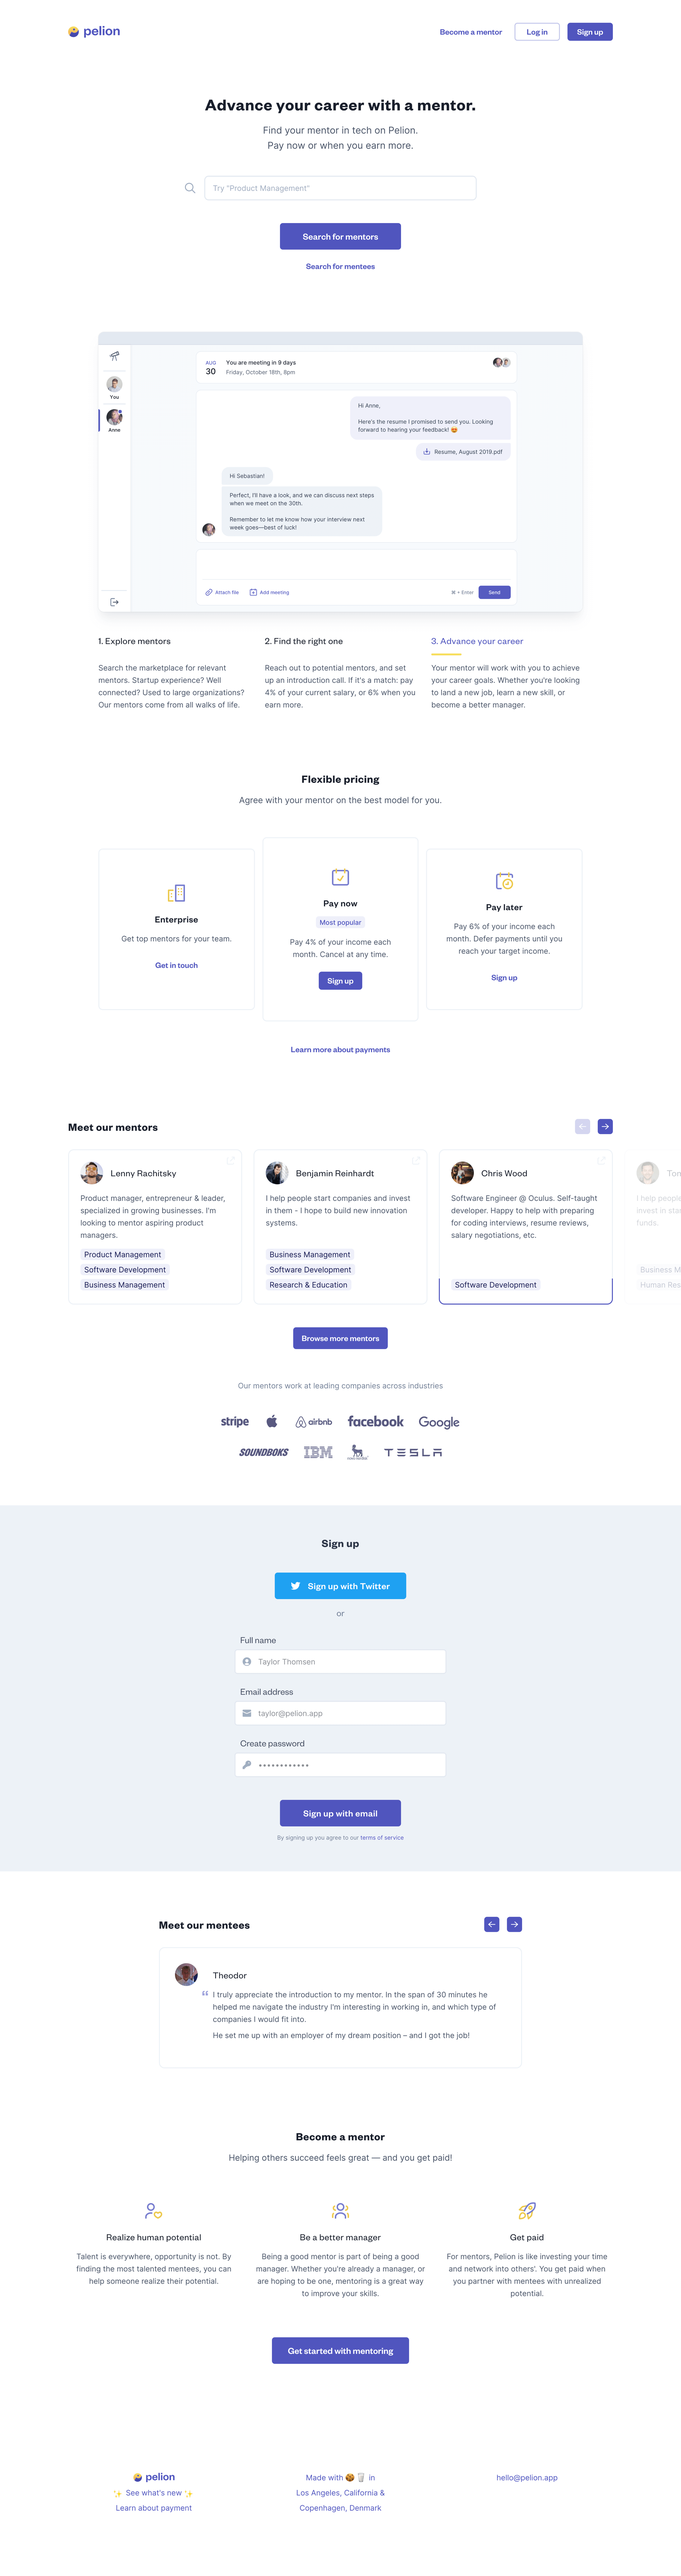
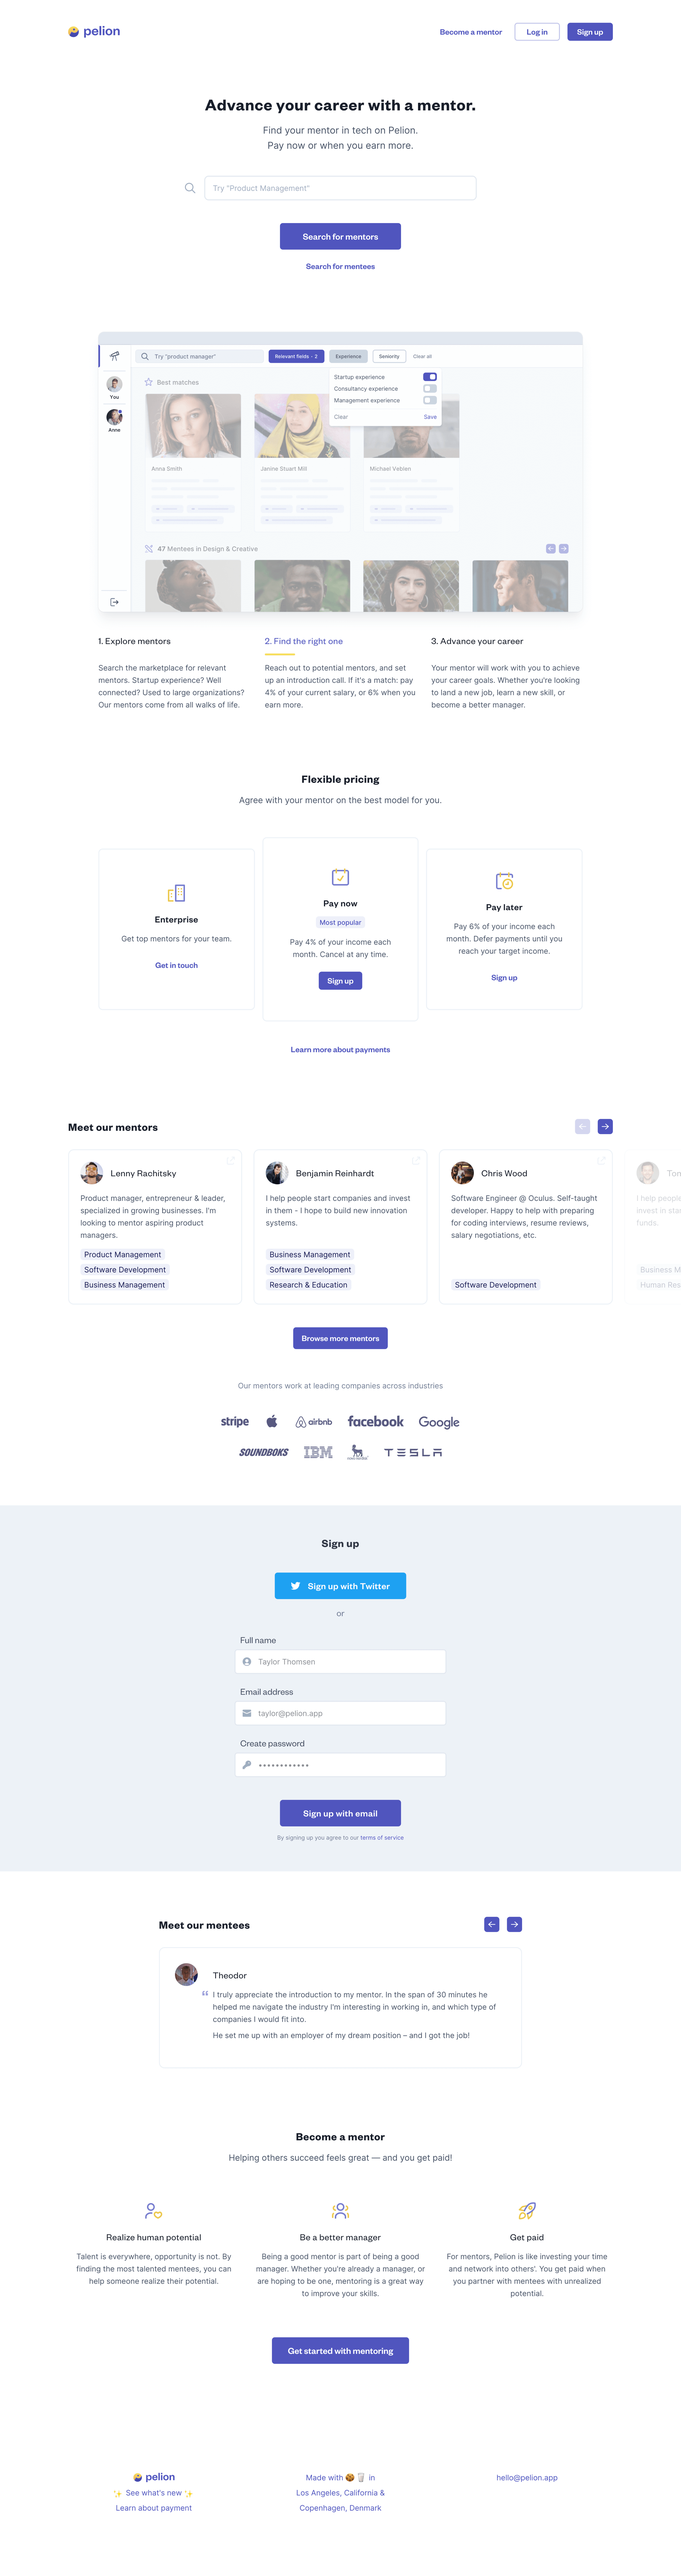
pelion corrections

Changed region(s): [[0.1875, 0.1246, 0.8438, 0.2492]]

diff --git a/pages/work/pelion.js b/pages/work/pelion.js
@@ -19,13 +19,13 @@ export default () => (
     <TextWithHeading
       title="Opportunity"
       paragraphs={[
-        "There's great value in mentorships. Many mentorships are formed because mentees are luck to have someone in their network who's happy to help them. However, many young professionals don't necessarily have networks in their respective fields."
+        "There's great value in mentorships. Many mentorships are formed because mentees are luck to have someone in their network who's happy to help them. However, many young professionals don't necessarily have any prospective mentors in their network. Pelion is working to change that."
       ]}
     />
     <TextWithHeading
       title="Solution"
       paragraphs={[
-        "We created a marketplace for them to explore, discover, reach out and engange in mentorships with senior professionals in tech.",
+        "We created a marketplace for young professionals to explore, discover, reach out and engange in mentorships with senior professionals in tech.",
         "Pelion utilizes an income sharing payment model. Mentees pay a small percentage of their salary to their mentor each month, incentivizing mentors to help mentees advance their career. Mentees have the option to defer payments until reaching a target income, enabling mentors to bet on the talent of tomorrow.",
         <>
           Pelion recently had a sucessful launch on{" "}
@@ -59,8 +59,8 @@ export default () => (
             "How might we create a product that makes it even to collaborate on active mentorships, even when utilizing external tools?"
           ]}
         />,
-        "The first challenge we addressed by creating the public marketplace that Pelion currently is. Mentees are now free to browse mentors within their professions (or vice versa) on the platform from their first signup. This gives them the opportunity to get take the first step to working on their career challenges as soon as possible.",
-        "The second challenge we addressed by putting a stronger focus on messaging. While digital tools for goal-setting, to-do's and meeting notes are undoubtedly part of many mentorships, users already have personal preferences in these categories. By focusing on messaging, Pelion becomes the core channel for communicating and gaining an overview, and lets users work in the way they most prefer."
+        "We addressed the first challenge by creating the public marketplace that Pelion currently is. Mentees are now free to browse mentors within their professions (or vice versa) on the platform from their first signup. This gives them the opportunity to take the first step to working on their career challenges as soon as possible.",
+        "We addressed the second challenge by putting a stronger focus on messaging. While digital tools for goal-setting, to-do's and meeting notes are undoubtedly part of many mentorships, users already have personal preferences in these categories. By focusing on messaging, Pelion becomes the core channel for communicating and gaining an overview, and lets users work in the way they most prefer."
       ]}
     />
     <ImageMaxWidth src="/pelion/page.png" alt="Pelion website" />

diff --git a/pages/work/readwise.js b/pages/work/readwise.js
@@ -13,7 +13,7 @@ export default () => (
     <TextWithHeading
       title="Opportunity"
       paragraphs={[
-        "For people who read a lot, in can be hard to retain every insight. Readwise helps you stay engaged with your books and articles, by feeding back to you the best highlights, you've read. Because of their laser-sharp focus on helping users get the most out of what you read, Readwise asked me to help them optimize their design to best acommodate that vision."
+        "For people who read a lot, it challenging to retain every insight. Readwise helps you stay engaged with your books and articles by feeding back to you the best highlights you've read. Because of their laser-sharp focus on helping users get the most out of what they read, Readwise asked me to help them optimize their design to best acommodate that vision."
       ]}
     />
     <ImagesFullWidth
@@ -25,8 +25,8 @@ export default () => (
     <TextWithHeading
       title="Solution"
       paragraphs={[
-        "Every day, Readwise users go through their daily highlights. I worked to de-clutter the experience of the highlight view by introducing a stronger visual hierarchy, lifting the highlight from the rest of the page and putting it front and center. Action colors were dimmed so as to not steal focus from the highlight.",
-        "We created a product experience where the platform was secondary to the highlight. Bookmarking, note taking and sharing were all there when needed, but as small distractions as possible when not—rendering the user with complete silence to engage with their highlight."
+        "Every day, Readwise users go through their daily highlights. I worked to de-clutter the experience of the highlight view by introducing a stronger visual hierarchy, lifting the highlight from the rest of the page and putting it front and center. Action colors were dimmed so as to not steal focus from the highlight, and the highlight itself set in a serif font ot set it apart.",
+        "We created a product experience where the Readwise platform itself is secondary to the highlight. Bookmarking, note taking and sharing features are all there when they're needed, but don't take any focus when they're not—making sure the user is not distracted in engaging with their highlight."
       ]}
     />
     <ImagesScrollable

diff --git a/components/Project.js b/components/Project.js
@@ -101,7 +101,7 @@ export const ImagesFullWidth = ({ sources }) => (
     {sources.map(({ src, alt }) => (
       <div key={src} className="flex-auto m-2">
         <img src={src} alt={alt} className="rounded shadow mb-2" />
-        <p className="text-center text-gray-700 dark:text-gray-500">{alt}</p>
+        <p className="text-center text-gray-600 dark:text-gray-600">{alt}</p>
       </div>
     ))}
   </div>
